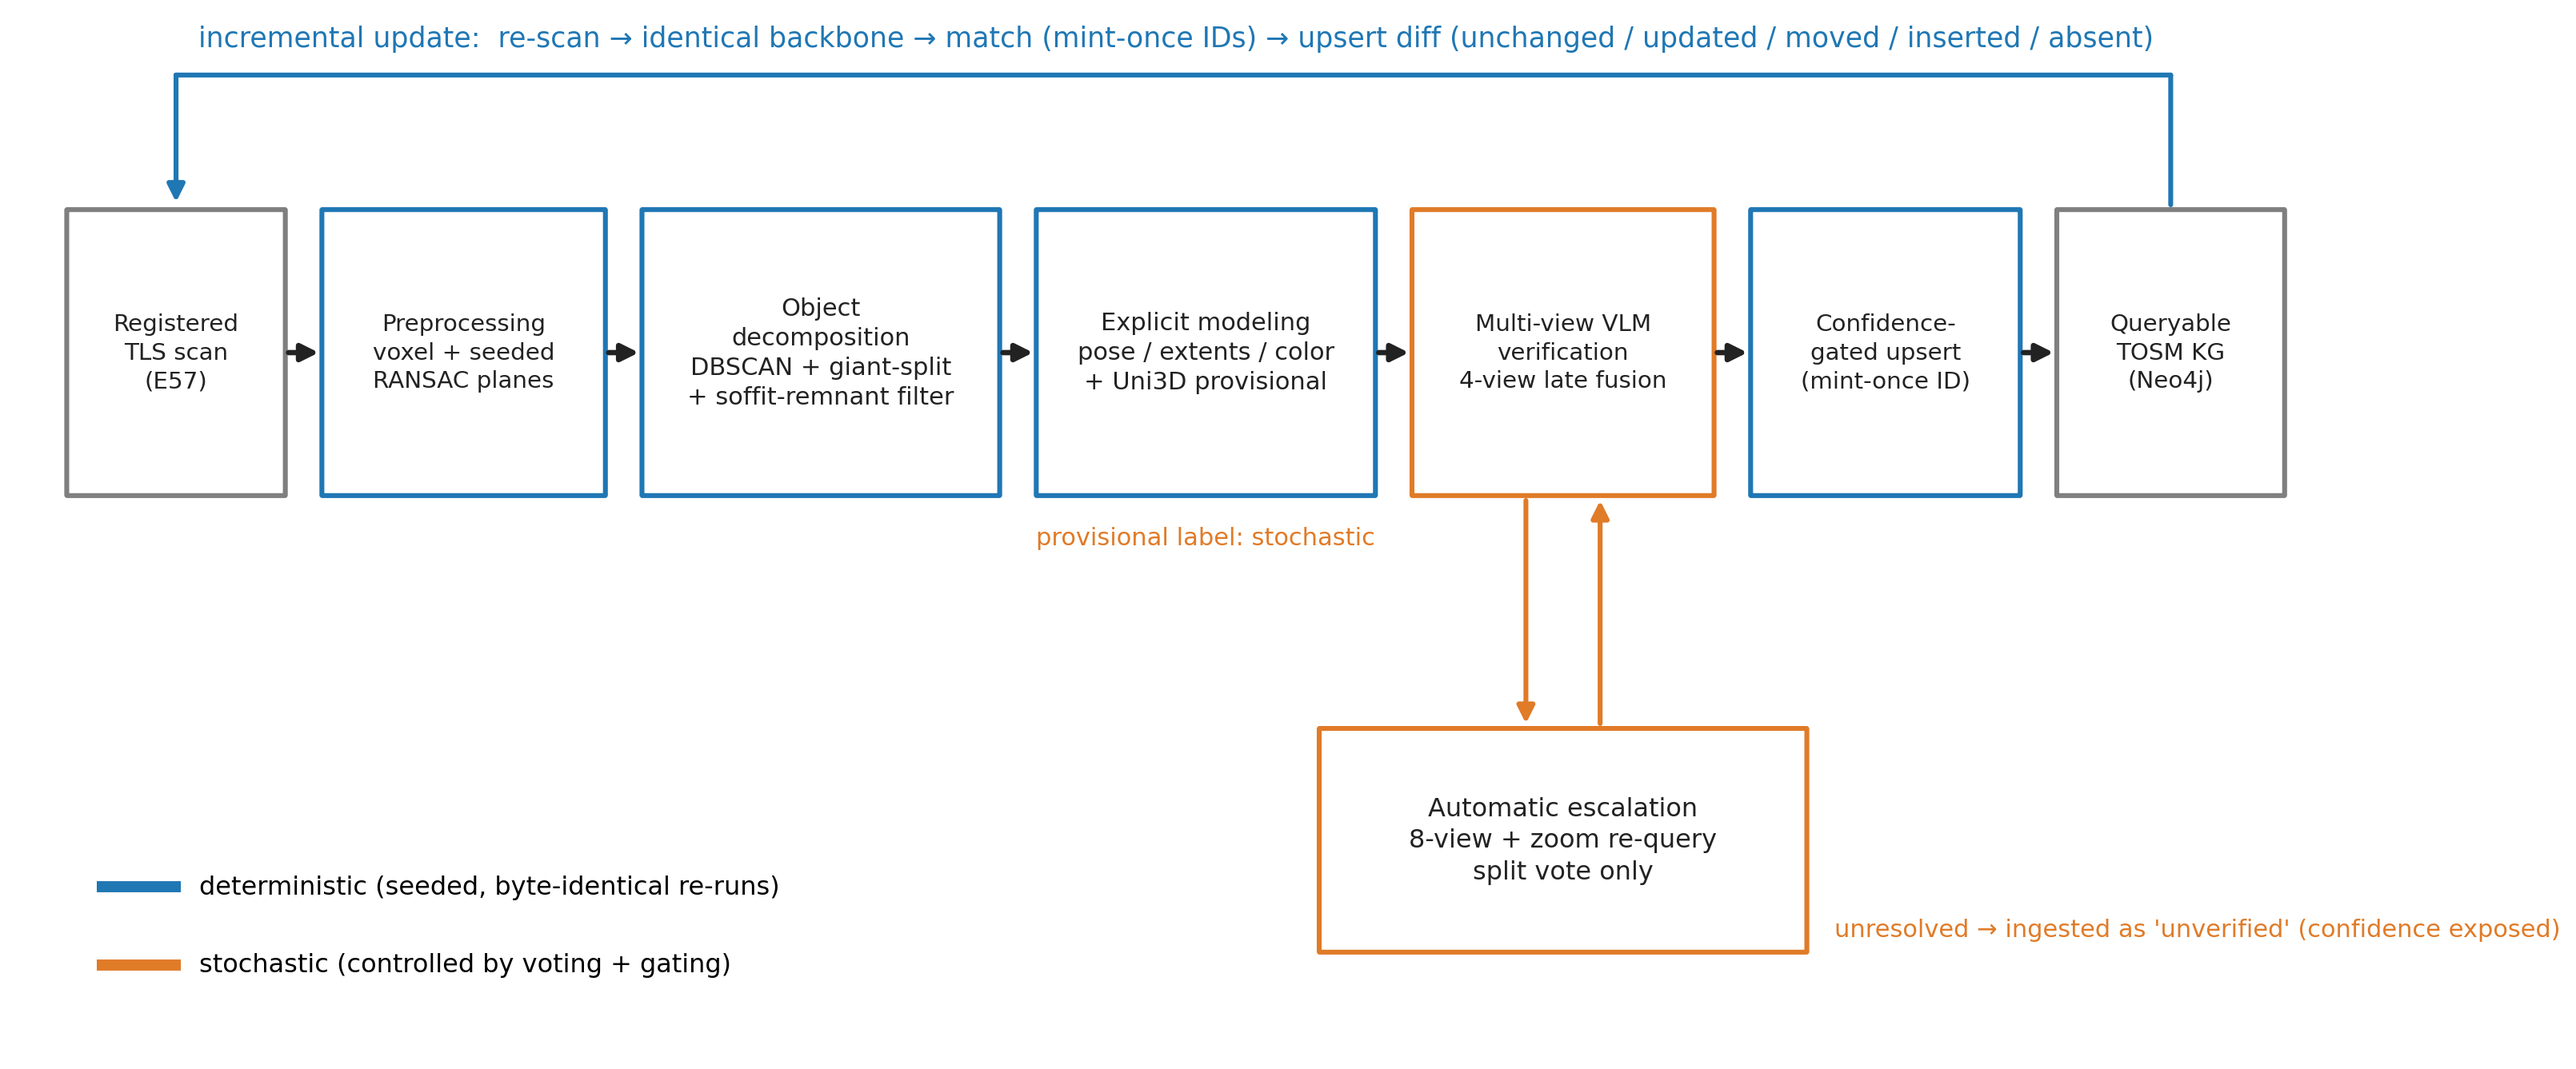
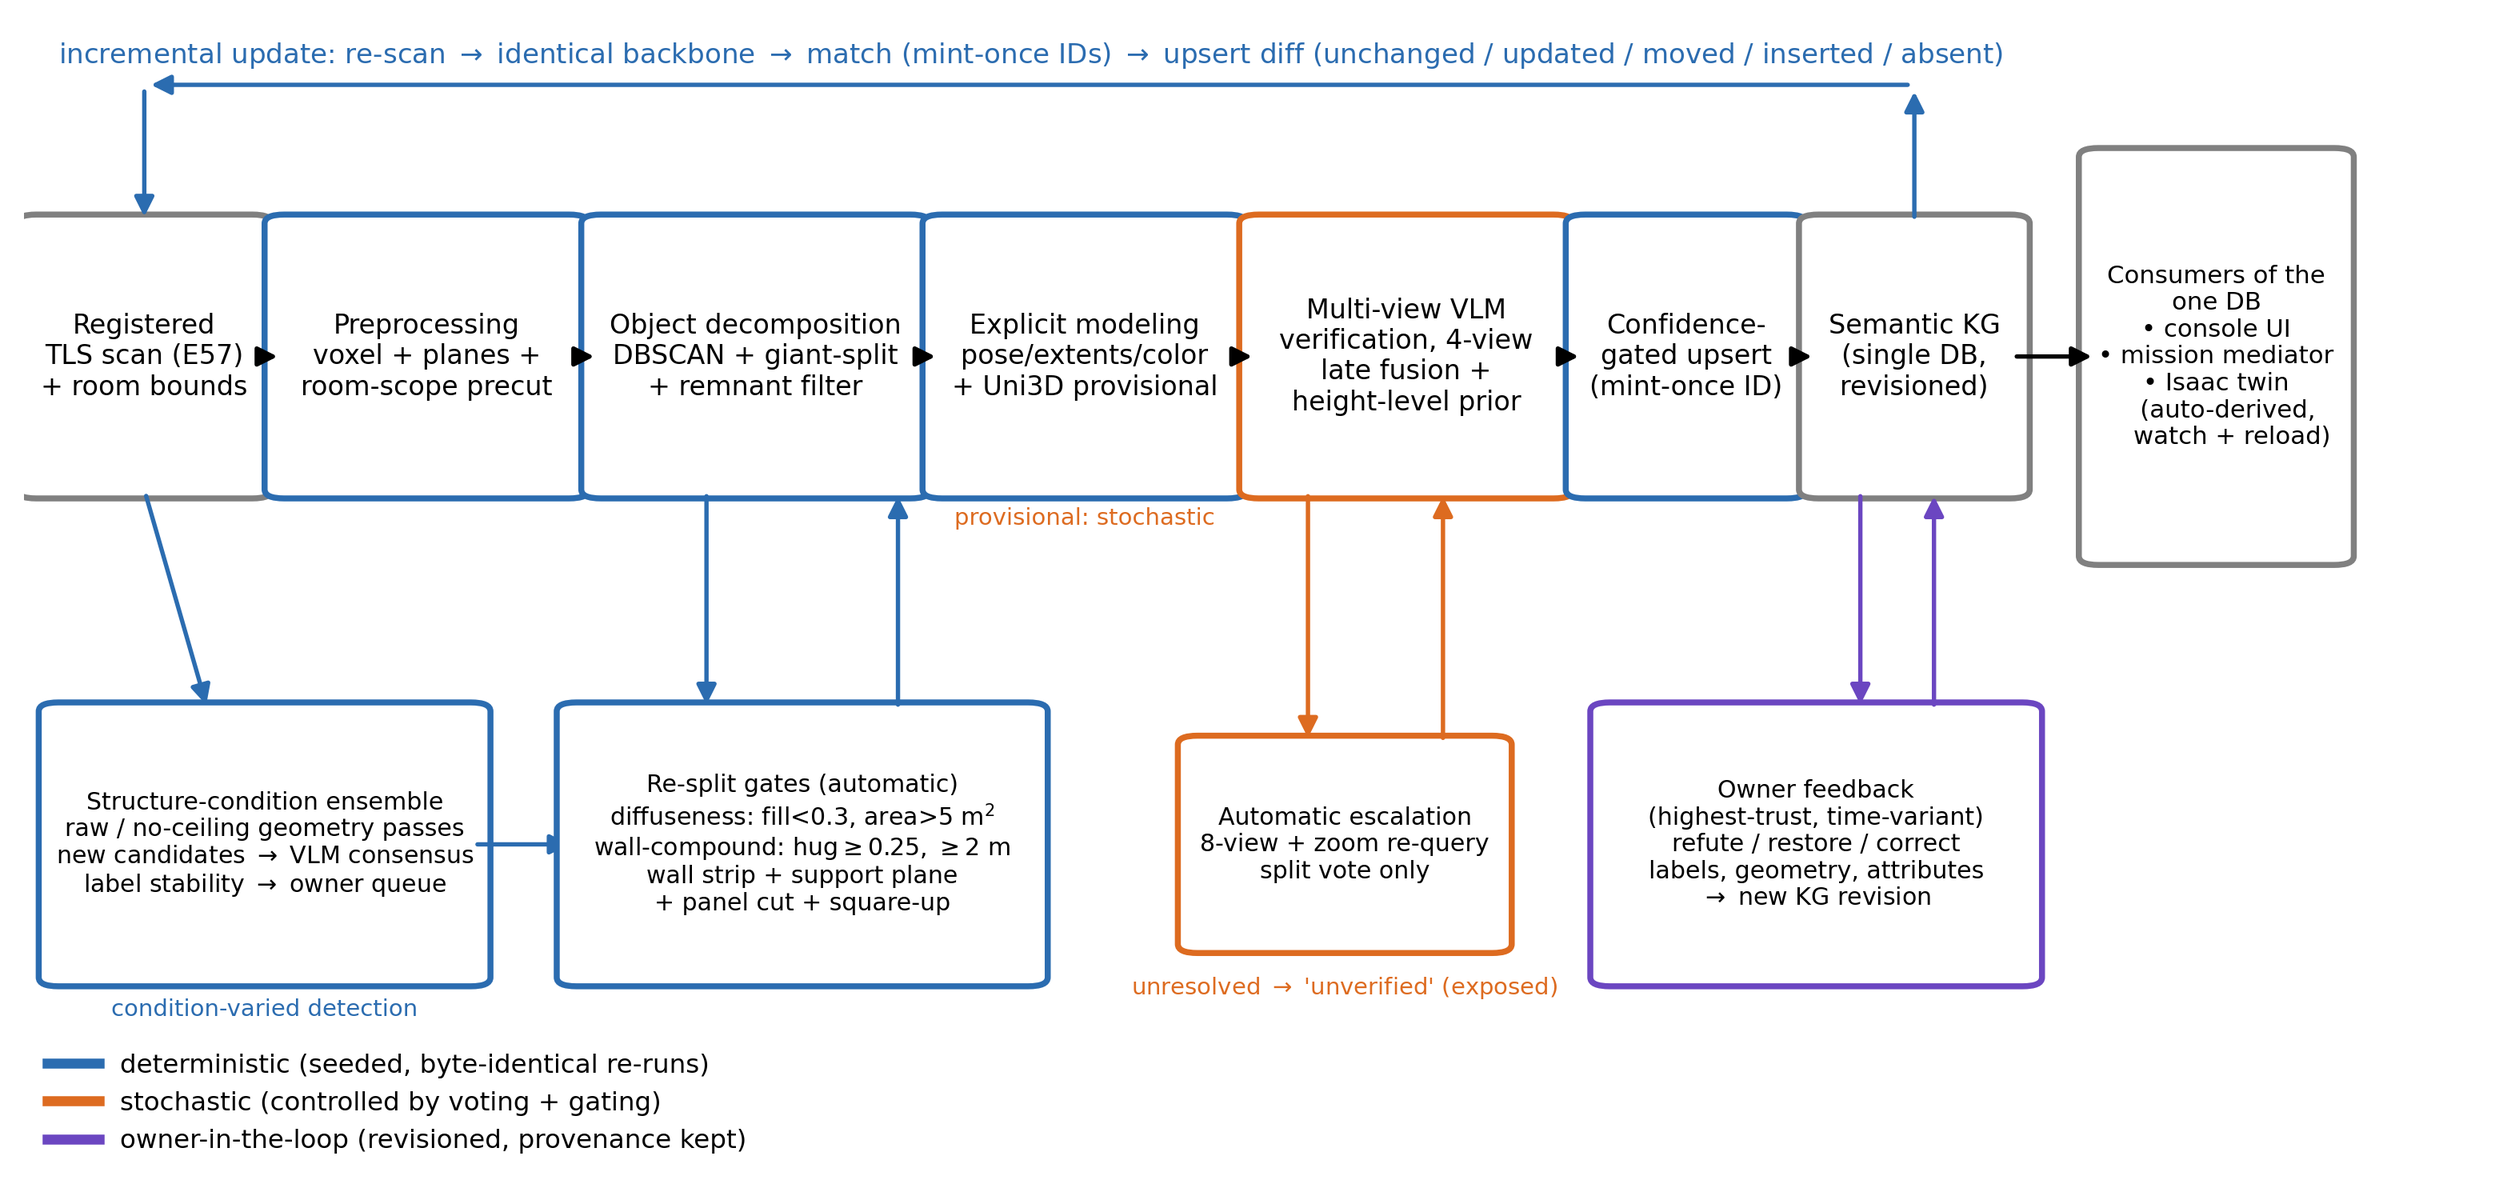
manuscript: architecture figure v2, wall-compound figure, full-text integration
- fig1 redrawn: re-split gates, structure-condition ensemble, owner
  feedback loop (purple, third color class), single-DB consumers column,
  height-level prior in the VLM stage, room-scoped precut; caption and
  sec3 overview rewritten to four loops and the claim-boundary color
  scheme (also fixes the old green/blue caption mismatch).
- fig17 added: monitor-wall compound before/after (raw RGB face-on vs
  automated decomposition into 9 units + posts + desk).
- abstract, contributions (two new items: corrective decomposition +
  condition-varied detection; owner-in-the-loop over a single store),
  and conclusion updated with the 28->85% end-to-end result and the
  verifier-cost finding.
- tab:semnav to footnotesize (overfull); 26 pp clean compile.

diff --git a/docs/electronics2026/manuscript/sec3_overview.tex b/docs/electronics2026/manuscript/sec3_overview.tex
@@ -1,17 +1,27 @@
 \section{System Overview}
 \label{sec:overview}
 
-Figure~\ref{fig:architecture} shows the framework as five stages with two
-feedback loops. A registered TLS scan enters the \emph{deterministic
-geometric backbone} (green in the figure): preprocessing and structure
-removal, object decomposition with remnant filtering, and explicit modeling.
-Its output---a set of clusters with explicit geometric attributes and
-provisional labels---feeds the \emph{probabilistic semantic stages} (orange):
-multi-view VLM verification with an internal escalation loop, and
-confidence-gated integration into the knowledge graph. The second loop is
-the \emph{update loop}: a later scan of the same site re-enters the backbone,
-is matched against existing node identities, and applies a node-level upsert
-rather than a rebuild.
+Figure~\ref{fig:architecture} shows the framework as a staged pipeline with
+four loops. A registered TLS scan enters the \emph{deterministic geometric
+backbone} (blue in the figure): preprocessing with room-scoped structure
+removal, object decomposition with remnant filtering, automatic
+\emph{re-split gates} that turn diffuse webs and wall-flush compounds into
+decomposition triggers rather than discards, and explicit modeling. A
+parallel \emph{structure-condition ensemble} re-detects under varied
+removal conditions, contributing wall-flush candidates that any single
+condition amputates and a per-object label-stability signal. The backbone's
+output feeds the \emph{probabilistic semantic stages} (orange): multi-view
+VLM verification with a height-level physical prior and an internal
+escalation loop, then confidence-gated integration into the knowledge
+graph. The graph is the \emph{single semantic store}: the management
+console, the mission mediator, and the Isaac~Sim twin are all derived from
+the same revisioned file. Two further loops close over it: the
+\emph{update loop} (a later scan re-enters the backbone, is matched
+against existing node identities, and applies a node-level upsert rather
+than a rebuild) and the \emph{owner loop} (purple), in which the room
+occupant refutes, restores, and corrects labels, geometry, and attributes
+as highest-trust---but time-variant---evidence, each intervention landing
+as a provenance-carrying revision.
 
 The color separation in the architecture is a claim boundary, not a drawing
 convention. Everything in the backbone is seeded and parameter-fixed;
@@ -41,9 +51,14 @@ resolved by hand.
 \begin{figure}[t]
 \centering
 \includegraphics[width=0.95\linewidth]{fig1_architecture.png}
-\caption{Framework architecture. Green stages form the deterministic
-geometric backbone; orange stages are probabilistic semantic inference under
-voting, escalation, and gating control. Two loops: automatic escalation
-(within verification) and incremental update (across scans).}
+\caption{Framework architecture. Blue stages form the deterministic
+geometric backbone (including the automatic re-split gates and the
+structure-condition ensemble); orange stages are probabilistic semantic
+inference under voting, escalation, and gating control; purple is the
+owner-in-the-loop revision path. The knowledge graph is the single
+semantic store from which the console, the mission mediator, and the
+simulation twin are derived. Four loops: escalation (within
+verification), re-splitting (within decomposition), incremental update
+(across scans), and owner feedback (across revisions).}
 \label{fig:architecture}
 \end{figure}

diff --git a/docs/electronics2026/manuscript/sec1_introduction.tex b/docs/electronics2026/manuscript/sec1_introduction.tex
@@ -58,6 +58,20 @@ Node IDs are minted once and carried by two-pass matching (spatial, then
 type-constrained move detection); re-scans apply node-level
 \texttt{unchanged/updated/moved/inserted/absent} upserts with per-revision
 history, and unchanged objects re-verify for free by content-hash carry-over.
+\item \textbf{Corrective decomposition and condition-varied detection.}
+Diffuseness and wall-compound gates turn ``too messy to be an object''
+from a discard decision into an automatic re-splitting trigger (wall-band
+stripping, support-plane and panel-bank cuts), and a structure-condition
+ensemble re-detects under varied wall/ceiling removal, recovering
+wall-flush objects any single condition amputates while exposing label
+instability as a per-object attribute.
+\item \textbf{Owner-in-the-loop revisions over a single semantic store.}
+The room occupant's refutations, restorations, and corrections of labels,
+geometry, and attributes enter as highest-trust but time-variant evidence
+through the same revision mechanism as re-scans; the management console,
+the mission mediator, and an Isaac~Sim twin are all derived from the one
+revisioned graph, so a correction propagates to every consumer from a
+single write.
 \end{enumerate}
 
 We validate the framework on two industrial indoor scenes with

diff --git a/docs/electronics2026/manuscript/sec8_conclusion.tex b/docs/electronics2026/manuscript/sec8_conclusion.tex
@@ -13,7 +13,17 @@ study of one room, the framework improved verification accuracy by up to 11
 points through escalation, blocked hallucination traps by gating the data
 rather than instructing the model, preserved object identity across three
 scan epochs including a controlled physical change, and re-verified repeat
-scans at zero marginal VLM cost.
+scans at zero marginal VLM cost. Extending the loop beyond one-shot
+verification, automatic re-split gates and a structure-condition ensemble
+raised no-owner-input recall against an owner-audited 46-object inventory
+from 28\% to 85\% --- including a nine-of-ten decomposition of a monitor
+wall the baseline had verified as a single cabinet --- while the remaining
+type errors localized the owner's role precisely: verifier bias is
+correlated across models, conditions, and view sets, so label truth enters
+through revisioned owner evidence over a single semantic store that also
+feeds the console, the mission mediator, and the simulation twin. The
+verifier-tier comparison makes the same point economically: a weaker model
+escalates more, resolves less, and costs more end-to-end.
 
 Future work follows the limitations surfaced by our own evaluation:
 extending the remnant filter to non-vertical structure artifacts,

diff --git a/docs/electronics2026/manuscript/sec5_experiments.tex b/docs/electronics2026/manuscript/sec5_experiments.tex
@@ -212,6 +212,23 @@ condition, while the room's actual conveyor unit stayed
 \texttt{clutter} in every condition). The ensemble therefore ships as
 a recall tool plus a per-object \texttt{labelStability} attribute that
 prioritizes owner review --- not as a label fuser.
+Figure~\ref{fig:wallcompound} shows the wall-compound machinery end to
+end on the room's monitor wall.
+
+\begin{figure}[t]
+\centering
+\includegraphics[width=0.95\linewidth]{fig17_wall_compound.png}
+\caption{Automatic wall-compound decomposition (no owner input).
+(a)~As detected: a single 6\,m cluster mixing wall paint, ten dark
+monitor screens, support posts, and the desk --- confidently verified as
+one ``electrical cabinet'' by the baseline pipeline. (b)~After the
+wall-compound gate: the mapped wall band is stripped, the support plane
+separates the desk, u-density valleys cut the panel bank into columns,
+a conditional z-cut splits stacked rows, and a square-up pass re-assigns
+boundary points --- yielding nine of the ten owner-confirmed monitor
+units plus posts, desk, and under-desk storage.}
+\label{fig:wallcompound}
+\end{figure}
 
 \subsection{Verification: Fusion and Escalation}
 \label{sec:exp-verify}

diff --git a/docs/electronics2026/manuscript/main.tex b/docs/electronics2026/manuscript/main.tex
@@ -53,7 +53,16 @@ structurally gated querying answers 83.3\% of benchmark questions versus
 traps; and selective re-verification prices a changed re-scan at 3.1\% of a
 full rebuild (0\% when unchanged). A real three-epoch study with a
 controlled-change re-scan detects 2/2 physical changes at geometry level
-while preserving object identity across all three epochs.
+while preserving object identity across all three epochs. Beyond one-shot
+verification, automatic re-split gates (diffuseness and wall-compound
+triggers), a structure-condition detection ensemble, and an
+owner-in-the-loop revision path keep the graph corrigible in use, with
+the management console, the mission mediator, and a simulation twin all
+derived from the one revisioned store. A full re-run with no owner input
+recovers 85\% of the resulting owner-audited 46-object inventory, versus
+28\% for the verified path alone; the residual type errors concentrate
+where verifier bias is correlated across conditions, which is precisely
+the role owner evidence is designed to fill.
 \end{abstract}
 
 \textbf{Keywords:} terrestrial laser scanning; semantic mapping; knowledge

diff --git a/docs/electronics2026/manuscript/sec6_applications.tex b/docs/electronics2026/manuscript/sec6_applications.tex
@@ -58,6 +58,7 @@ three commands are resolved against the knowledge graph before and after
 structure filtering + owner feedback (both with the verification gate
 active). Wasted path includes the return leg.}
 \label{tab:semnav}
+\footnotesize
 \begin{tabular}{@{}llccc@{}}
 \toprule
 \textbf{KG state} & \textbf{Phantom target (truth)} & \textbf{Outcome} &
